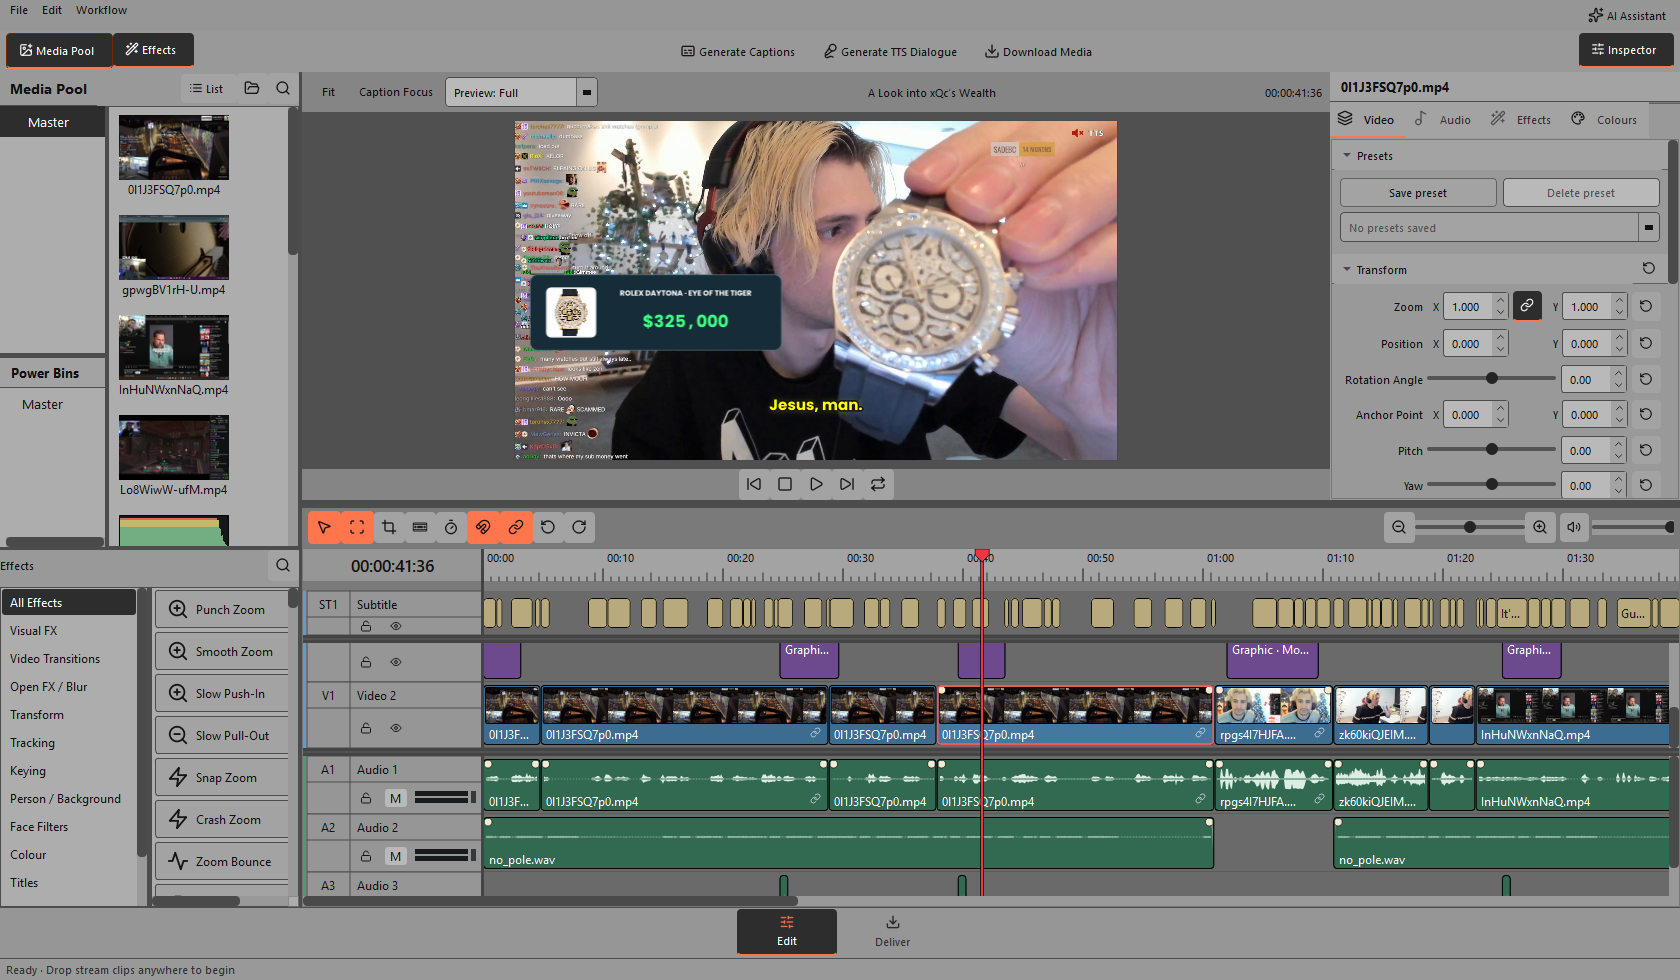
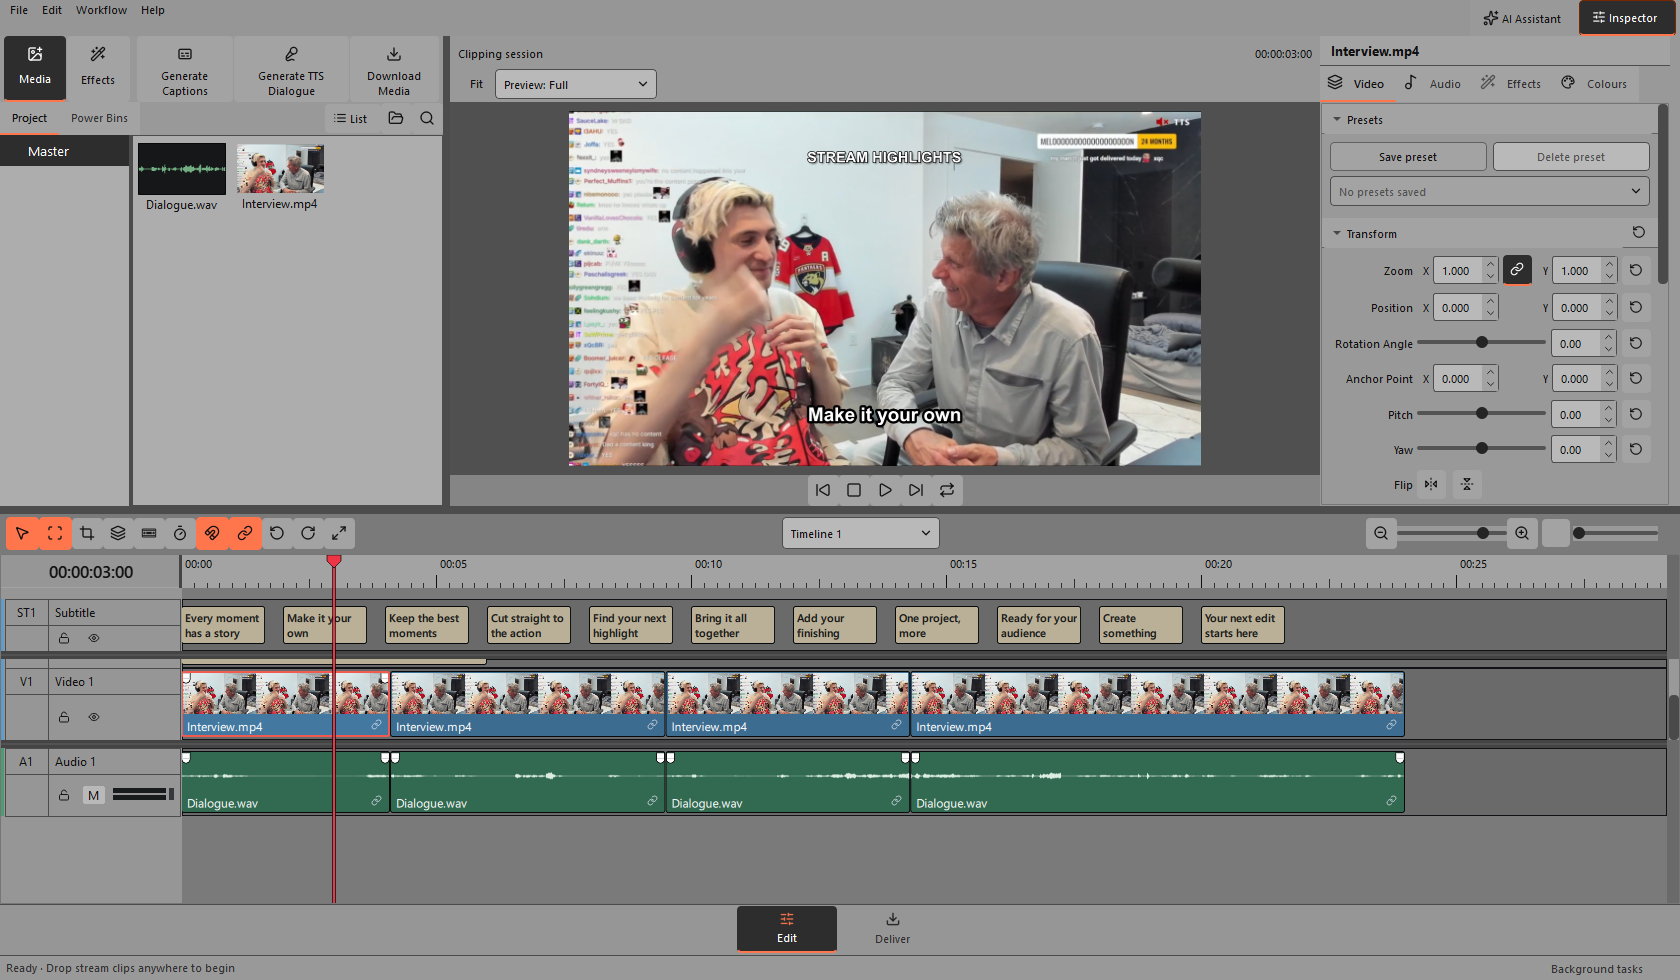
Refresh README with current editor screenshots and concise overview

diff --git a/README.md b/README.md
@@ -1,162 +1,82 @@
 # Kinetic Cut
 
-A lightweight Windows video editor inspired by DaVinci Resolve, built for fast
-short-form editing and general video projects. Includes layered video/audio
-timelines, transforms, effects, graphics, captions, Power Bins and export tools.
-Projects and media stay local.
+A Windows video editor for turning long recordings into finished clips. Cut and
+arrange video, audio and captions, build vertical or landscape edits, and export
+with GPU acceleration on supported hardware. Your projects and media stay local.
 
-[Download the Windows installer](https://github.com/farhanr3001/video-editor/releases/latest).
+**[Download for Windows](https://github.com/farhanr3001/video-editor/releases/latest)**
 
-![Kinetic Cut in the Default theme, editing a video with captions, a price graphic, layered clips and the video inspector](docs/screenshots/editor-default.png)
+![Kinetic Cut's current editor with a video preview, captions, layered clips and the Inspector](docs/screenshots/editor-default.png)
 
-*Default theme · a real editing project with captions, motion graphics and layered audio/video.*
+## Made for editing
 
-Editable motion compositions add parented layers, animated typography, masks,
-vector reveals and morphs, Bézier easing and motion blur with matching exports.
-Typewriter text, animated counters, corner radii and soft shape shadows support
-interface motion design. Project frame rates include 120 fps export.
-Reusable product/price cards, animated totals, showcases and chapter titles
-offer editable images, colours, prices and animation timing. The motion editor
-includes a layer/keyframe timeline, canvas handles, multi-selection, marquee
-selection, inline text editing and its own undo/redo and playback shortcuts.
-Motion scale axes link by default and can be unlinked. Multi-selection inspector
-steps and drags preserve individual values; typed values assign an exact value.
-Selected video layers show their transform boxes together.
-Timeline tools include re-time controls (Ctrl+R) and compact fade handles.
-The preview and timeline use GPU-backed Qt surfaces on supported systems, with
-D3D11 composition on Windows and bounded background compatibility work;
-optional cache cleanup runs only after the editor finishes closing; Power Bin
-previews remain available and reused between projects.
-Local object tracking adds moving censors, arrows, outlines, labels, image
-markers and following crops, with adjustable appearance and correction points.
-The tracking workspace includes GPU playback, direct marker handles, a zoomable
-frame timeline, linked table/diamond multi-selection and timed marker styles.
-Advanced Colours adds grading wheels, presets, hold-to-compare source
-colours and local undo/redo; Apply creates one editor undo step.
-The Media/Effects workspace gives the timeline the full window width. The Effects
-library includes search, favourites, recent items and effect-specific previews.
+- **A flexible timeline.** Work with multiple video, audio and subtitle layers,
+  linked clips, snapping, trimming and familiar keyboard shortcuts.
+- **Multiple timelines, one project.** Keep separate edits together with a shared
+  media pool and clipboard, plus independent undo/redo for each timeline.
+- **Captions and dialogue.** Generate captions locally, adjust their timing and
+  style, or create voice dialogue with online voices or an optional offline voice.
+- **Creative tools.** Add titles, editable motion graphics and effects. Grade your
+  footage with colour wheels, save presets and compare against the original.
+- **Reusable media.** Keep favourite assets in Power Bins across projects.
+- **Export your way.** Choose your resolution, aspect ratio and frame rate, then
+  queue exports from any timeline. Hardware encoding is available where supported.
 
-Projects can contain multiple named timelines with a shared media pool and
-clipboard, independent editing history and separate render-queue snapshots.
-Fullscreen Timeline Mode expands the layers beside a resizable preview, with
-floating Media, Effects and Inspector panels and bottom editing controls.
-Help includes application repair, version details and support reports. Interrupted
-sessions offer recoverable project copies; recovery storage is included in the
-cache manager. An optional downloadable offline English voice is available.
-Audio playback follows output changes made in Windows Volume Mixer.
+## More room for your timeline
 
-## Effects and performance
+Fullscreen Timeline Mode puts your layers beside a resizable preview. Media,
+Effects and the Inspector open as temporary floating panels, keeping the workspace
+available for editing. Switch back to the normal layout at any time.
 
-GPU preview composition keeps timeline navigation responsive during playback.
-Supported exports use D3D11 composition and hardware encoding; unsupported stacks
-retain exact compatibility processing. Diagnostics distinguish GPU composition
-from hardware decoding.
+![Fullscreen Timeline Mode with expanded layers, a preview on the right, and the ruler and editing controls at the bottom](docs/screenshots/editor-fullscreen-timeline.png)
 
-The Effects library includes 34 creative video/image effects, linked speed presets
-and 49 transitions. New groups include distortion and flow, light and lens,
-texture and retro, pieces and particles, and geometric reveals. Puzzle Assemble
-connects moving pieces of the incoming video. Effects and transitions retain
-editable inspector controls, ordering, undo/redo and project persistence.
-Caption generation includes local speech alignment and an elapsed timer.
-Completed render jobs are saved with projects. Export controls reset when switching
-projects. GPU exports stream captions and motion graphics with exact frame reuse,
-and supported retimes and transitions retain their preview geometry and timing.
-Cached enhancement and vision frames stream on demand; uncached complex nested
-timelines and explicit CPU compatibility can still require lossless preparation.
-Action and crash logs help investigate interrupted editing sessions.
+## Choose your theme
 
-## Themes
-
-Choose **Default**, **Obsidian**, or **Ableton Grey** from **File → UI Themes**.
+Select **Default**, **Obsidian** or **Ableton Grey** from **File → UI Themes**.
+The editor above uses Default; expand either option below for a closer look.
 
 <details>
-<summary><strong>Obsidian</strong> — deep graphite with blue accents</summary>
+<summary><strong>Obsidian</strong> — dark graphite with blue accents</summary>
 
-![Kinetic Cut editor in the Obsidian theme](docs/screenshots/editor-obsidian.png)
+![The current Kinetic Cut editor in the Obsidian theme](docs/screenshots/editor-obsidian.png)
 
 </details>
 
 <details>
-<summary><strong>Ableton Grey</strong> — matte studio grey with orange accents</summary>
+<summary><strong>Ableton Grey</strong> — studio grey with orange accents</summary>
 
-![Kinetic Cut editor in the Ableton Grey theme](docs/screenshots/editor-ableton-grey.png)
+![The current Kinetic Cut editor in the Ableton Grey theme, including its matching timeline colours](docs/screenshots/editor-ableton-grey.png)
 
 </details>
 
-## Motion graphics editor
+## Get started
 
-Build editable compositions with layers, canvas controls, keyframe timing and Bézier easing.
+Download **FullSetup** from the [latest release](https://github.com/farhanr3001/video-editor/releases/latest)
+for a new installation. Editing and offline English captions are included;
+additional tools and voice downloads are optional.
+
+Already installed? Use **File → Check for updates**. Updates preserve your settings,
+Power Bins and optional downloads. **Help** includes recovery copies, application
+repair, version details and support reports.
+
+## Optional AI assistance
+
+Kinetic Cut includes an MCP connection so compatible assistants can work with the
+open editor. You can edit manually, use an assistant, or combine both.
+
+For Claude Desktop, open **AI Assistant → Connect to Claude Desktop**, then fully
+quit and restart Claude Desktop. For Claude Code, use **Copy Claude Code command**.
+Keep Kinetic Cut open while connected. The installed bridge needs no separate
+Python or Node installation.
 
 <details>
-<summary>See the motion graphics workspace</summary>
+<summary><strong>For developers</strong></summary>
 
-![Motion graphics editor showing composition layers, canvas handles, a keyframe timeline and Bézier easing controls](docs/screenshots/motion-editor.png)
+Built with Python, PySide6, FFmpeg and a Windows GPU rendering engine.
+See [third-party notices](THIRD_PARTY_NOTICES.txt).
+
+Run `python scripts/check_project.py build/checkpoint` for isolated source checks.
+Native GPU, packaged application and installer checks are separate; GitHub Actions
+runs the source checks on pushes and pull requests.
 
 </details>
-
-## Installation
-
-Editing and offline English caption generation are included. Optional face/background tools and vocal separation can be installed during
-setup or downloaded later inside the app.
-Use **FullSetup** for a new installation. Installed copies download changed files
-for updates; settings, Power Bins and optional downloads are preserved.
-Versions 1.1.20–1.1.22 use full installer updates so skipped versions also receive the repaired native uninstaller.
-Uninstall removes Power Bins, settings, optional downloads, caches and files in
-the default Kinetic Cut download folder. Projects and media elsewhere stay intact.
-
-Built with Python, PySide6 and FFmpeg. See [dependency notices](THIRD_PARTY_NOTICES.txt).
-
-## Connect Claude to the editor
-
-Open AI Assistant and choose **Connect to Claude Desktop**, then fully quit and
-restart Claude Desktop. Keep Kinetic Cut open and enable its tools in your chat.
-The setup preserves other MCP servers and backs up existing Claude configuration.
-**Copy Claude Desktop JSON** provides the same local stdio configuration manually.
-
-For Claude Code, choose **Copy Claude Code command**, paste it into PowerShell,
-and check `/mcp` in Claude Code. No Node/Python install or API key is required for
-the installed editor bridge. Connection status verifies actual requests, not just
-configuration. Browser-only Claude cannot connect directly to this local bridge.
-
-Setup follows the [MCP local-server guide](https://modelcontextprotocol.io/docs/develop/connect-local-servers)
-and [Claude Code MCP documentation](https://code.claude.com/docs/en/mcp).
-
-## Reliability and release checks (development)
-
-Run `python scripts/check_project.py build/checkpoint` for the complete isolated
-source suite. Each module gets a fresh profile, a deadline, fault traces and its
-own log. Passing reports include the source fingerprint; zero-test modules fail.
-Add actual test filenames after the output directory for an affected-scope run.
-GitHub Actions runs source checks on pushes and pull requests, preserving reports.
-Hosted source checks do not replace native Windows/GPU and installation checks.
-Once the candidate has been built and safely installed, `python scripts/check_release.py build/release-check-<unique-name>`
-runs all four milestones and seals the release evidence in one command. It never
-replaces an open editor or publishes anything. Pass `--offline-fixture <verified-runtime-folder>`
-to include real offline narration in the packaged checks.
-
-`python scripts/reproduce.py --help` lists reusable native reproductions. They run
-on a private desktop with disposable profiles. The speech-service case contacts
-the free online service using fixed diagnostic text; offline narration is an
-explicit optional download, never an implicit test dependency.
-
-Use `python scripts/verify_package.py <exe> <output> --kind staged` and again with
-`--kind installed` after safe local installation. These check packaged source,
-managed files, startup, Help and recovery UI in all themes. Use
-`python scripts/verify_installer.py build/installer-check-<unique-name>` after
-generating installer sizes: it compiles a separate-identity/no-shortcuts test
-installer, checks install/upgrade/owned-helper closure/startup/uninstall and keeps
-the second-phase uninstall log. No installed ownership log is copied elsewhere.
-
-Before release, build the current payloads and installers. For a one-time full
-installer update, run `python scripts/release_gate.py prepare-installer-channel`
-before sealing the evidence. Then run:
-
-```
-python scripts/release_gate.py seal build/release-gate.json --source <checkpoint/report.json> --staged <staged/report.json> --installed <installed/report.json> --installer <installer/report.json>
-```
-
-Release uploads require `scripts/publish_release.py --gate build/release-gate.json`.
-The gate rejects stale source, incomplete milestones and changed release files.
-`--preview` publishes an opt-in GitHub prerelease; Stable users stay on the normal
-stable channel. Public publication still requires the owner's explicit instruction.
-Never label an unexecuted hosted run, native workflow or installation as passed.
